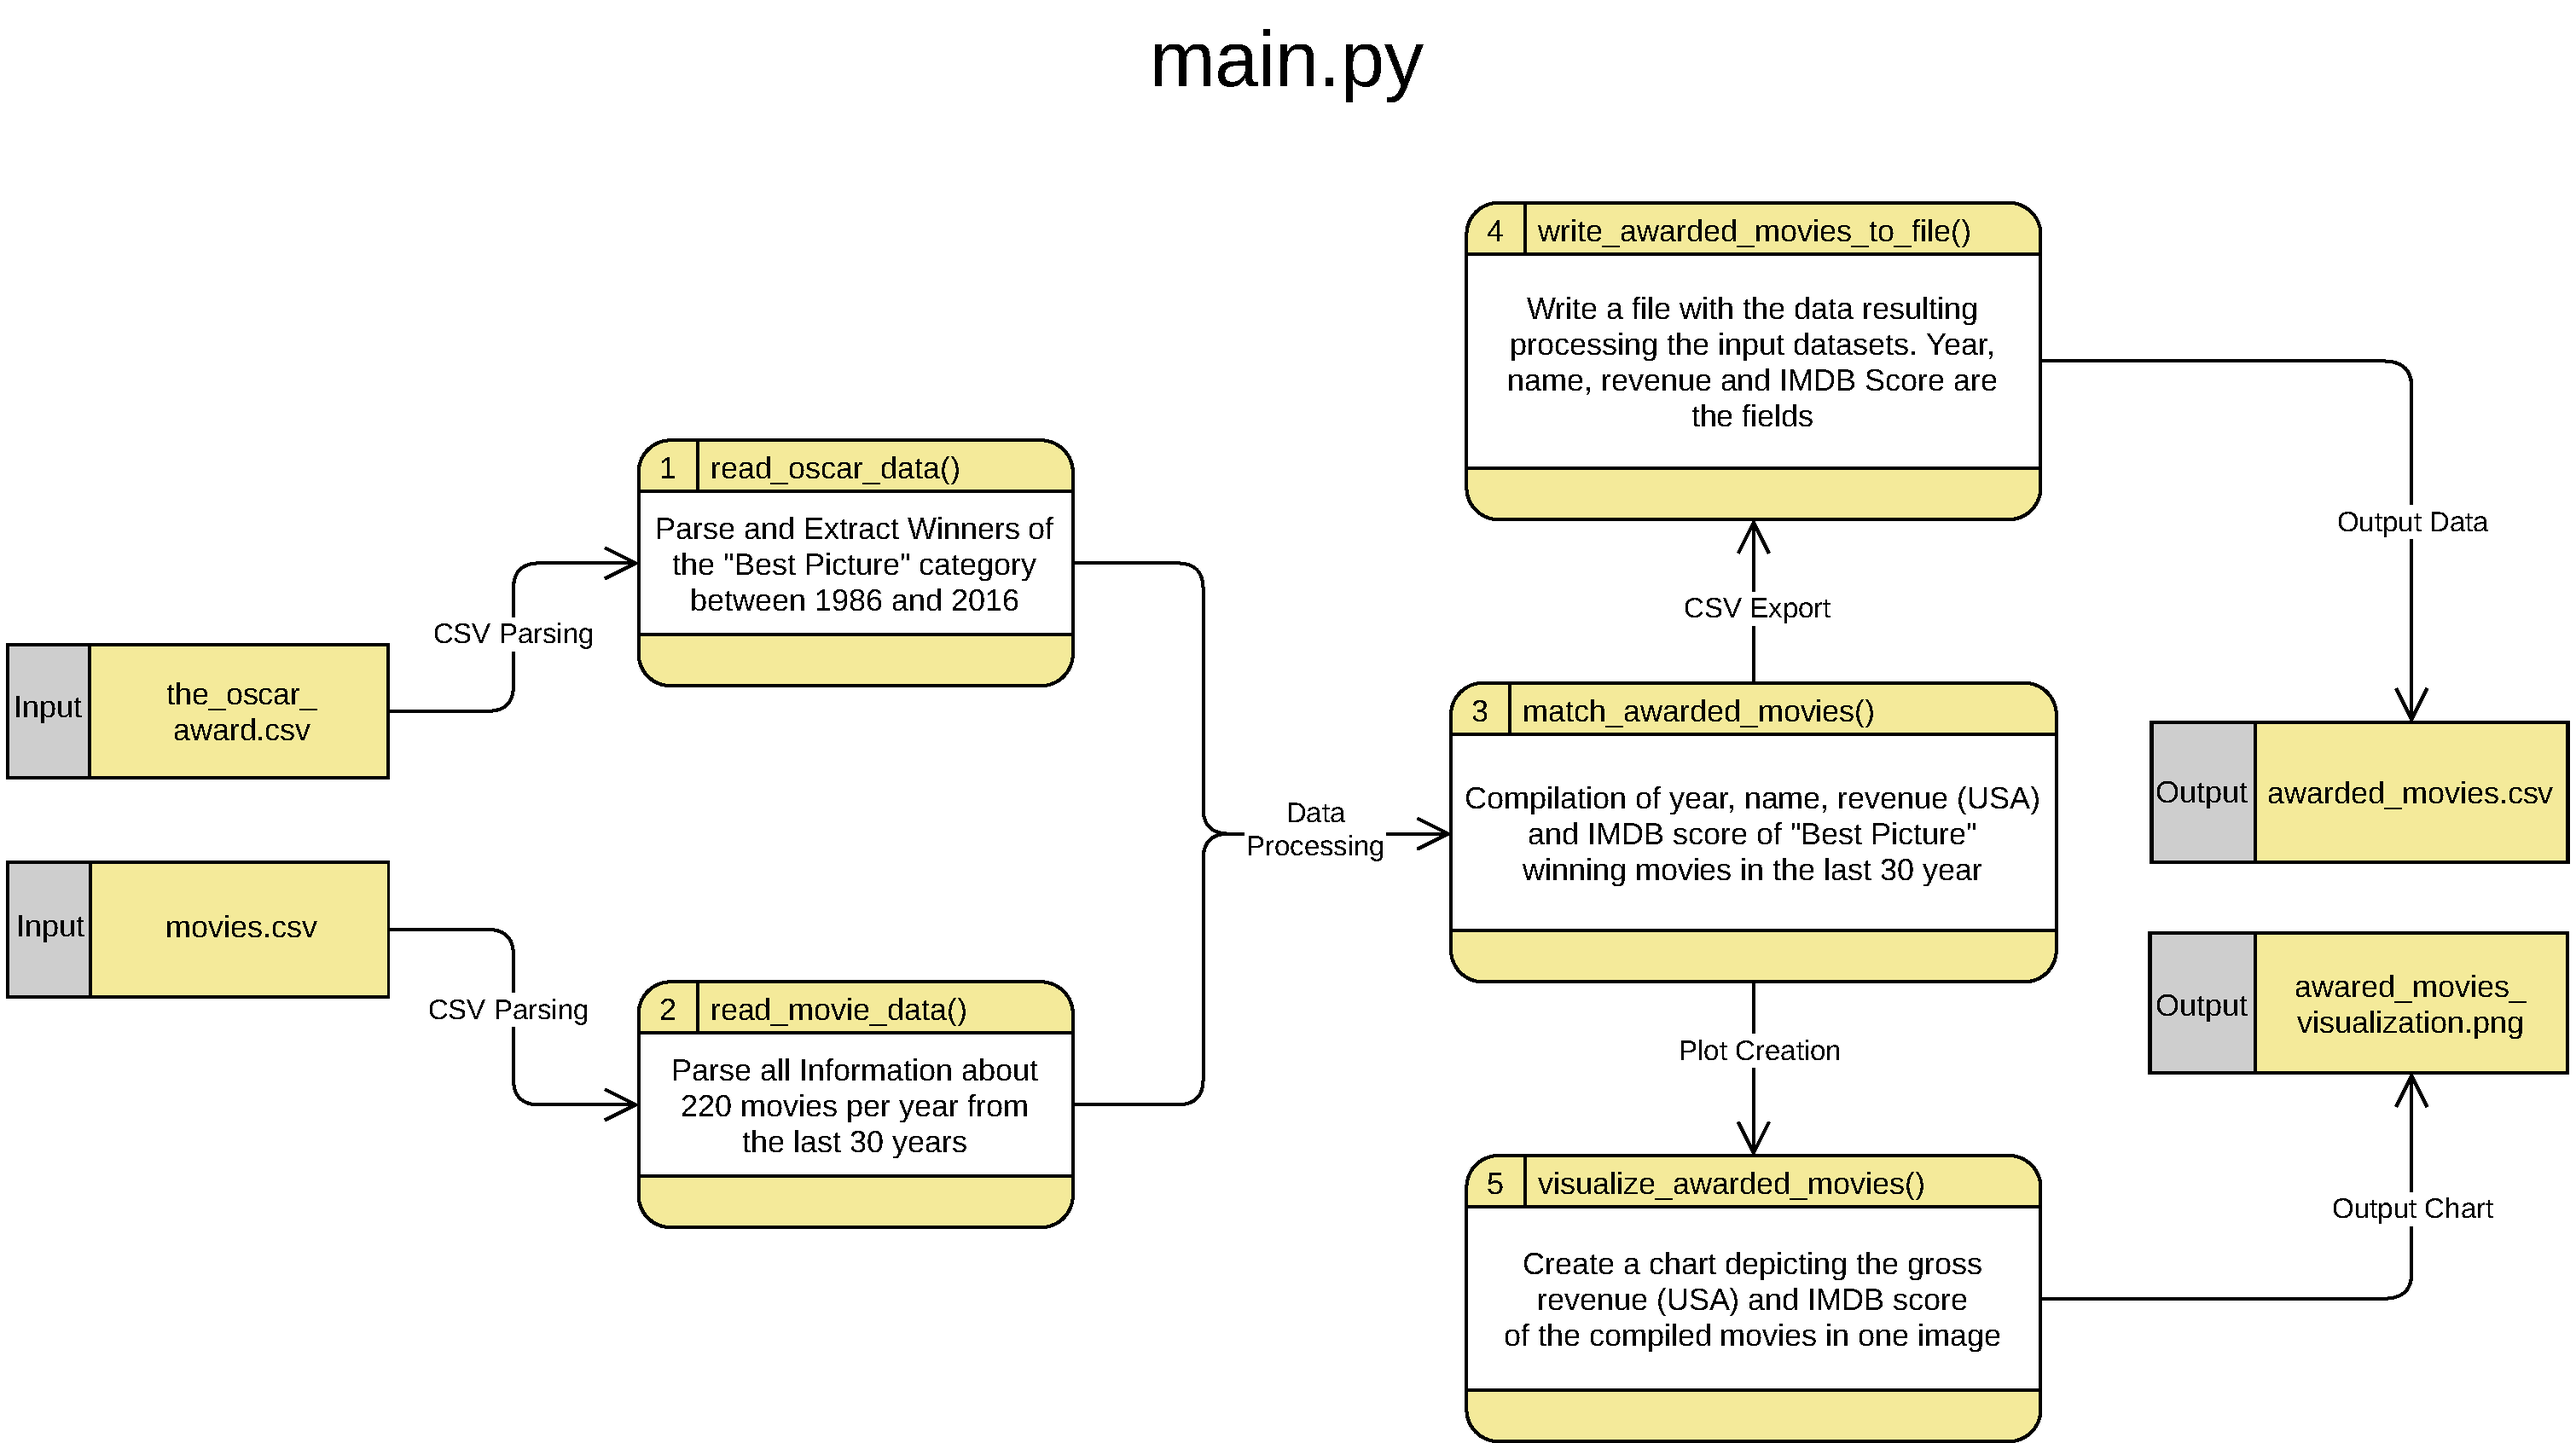
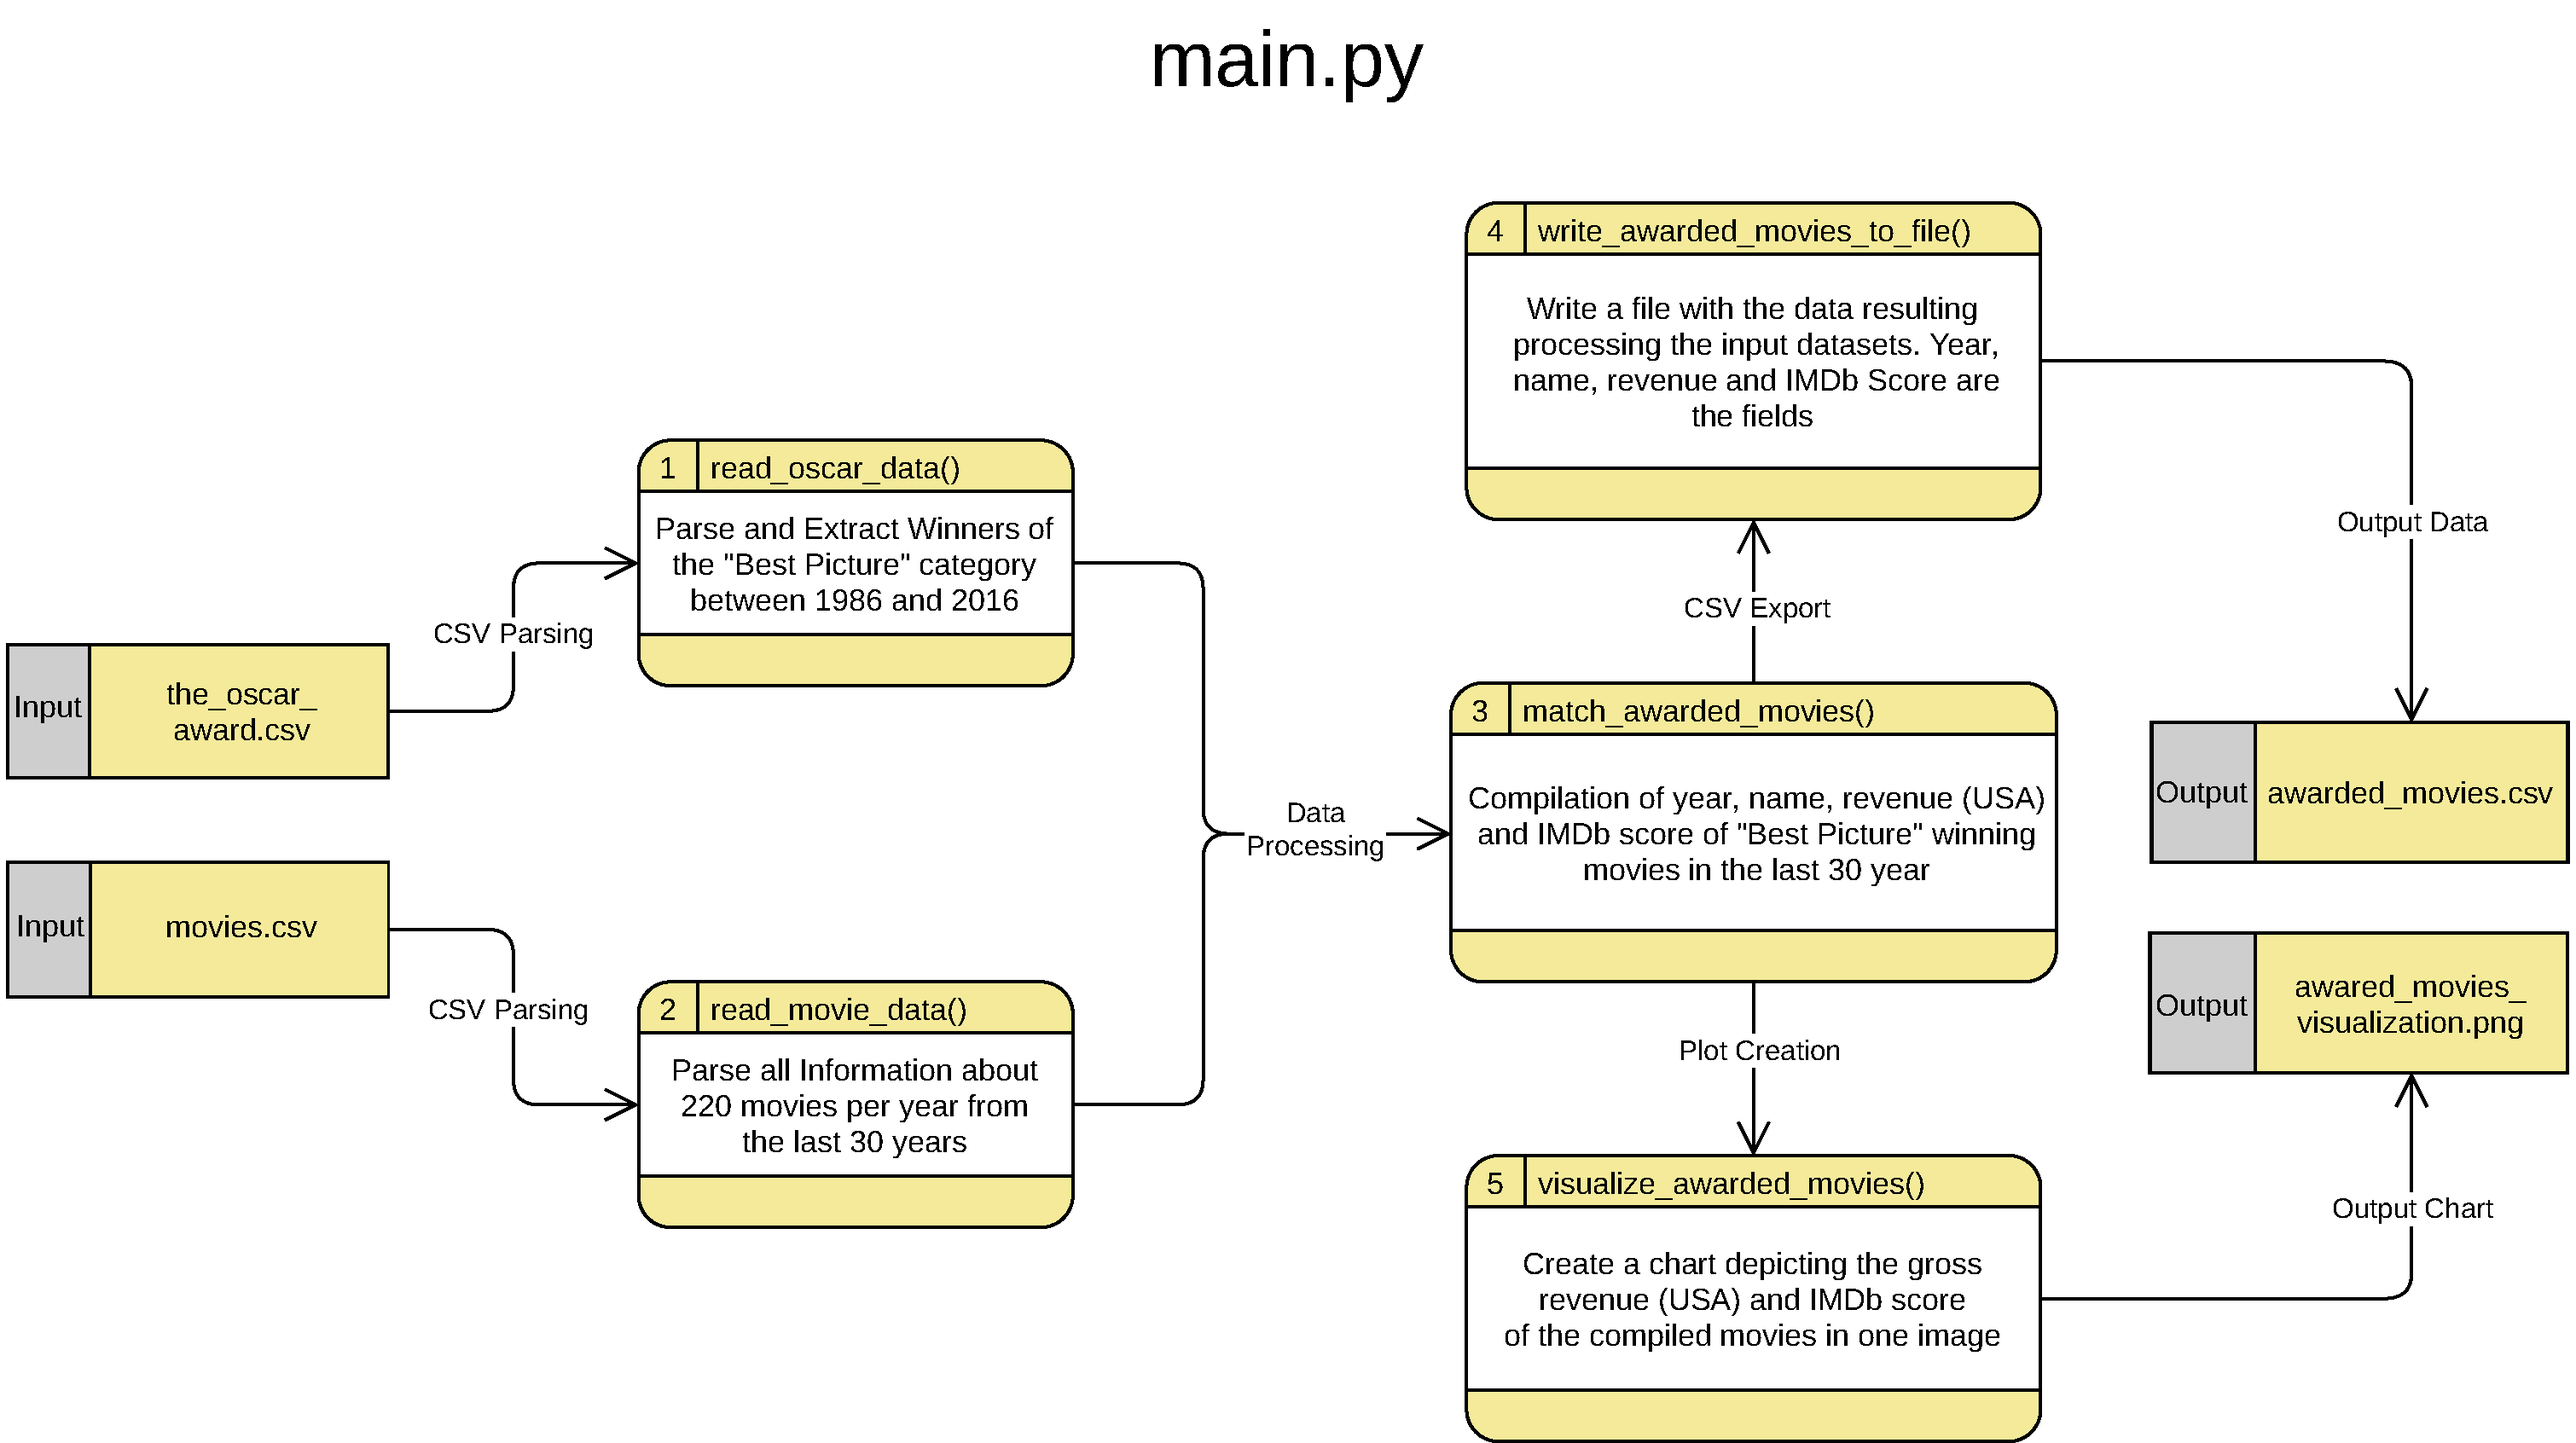
Change spelling of "IMDB" to correct variant "IMDb"

Changed region(s): [[0.5603, 0.5225, 0.8093, 0.6147], [0.5914, 0.2151, 0.7781, 0.2766], [0.5914, 0.8913, 0.747, 0.922]]

diff --git a/src/main.py b/src/main.py
@@ -95,9 +95,9 @@ def read_oscar_data() -> Collection[OscarInfo]:
 
 def read_movie_data() -> Collection[Movie]:
     """
-    Parses the CSV dataset with IMDB information about movies from 1986 to 2016 and deserializes it into Movie model instances.
+    Parses the CSV dataset with IMDb information about movies from 1986 to 2016 and deserializes it into Movie model instances.
 
-    :return: Returns a collection of Movie instances that represents the raw information of the IMDB movie dataset.
+    :return: Returns a collection of Movie instances that represents the raw information of the IMDb movie dataset.
     :rtype: Collection[Movie]
     """
 
@@ -113,12 +113,12 @@ def read_movie_data() -> Collection[Movie]:
 
 def match_awarded_movies(oscar_infos: Iterable[OscarInfo], movies: Iterable[Movie]) -> Collection[AwardedMovie]:
     """
-    Matches the information gathered from the Oscar dataset with the one gathered from the IMDB movie dataset. Two entries are
+    Matches the information gathered from the Oscar dataset with the one gathered from the IMDb movie dataset. Two entries are
     defined to be "matching" if the title and year of the film described are equal in both datasets - i. e. film identity is
     defined by the name and finalization/release year.
 
     :param oscar_infos: relevant oscar award information to be taken into consideration for the matching
-    :param movies: movie data with IMDB information (gross revenue, user score) to be matched with the oscar infos
+    :param movies: movie data with IMDb information (gross revenue, user score) to be matched with the oscar infos
     :return: Returns a collection of AwardedMovie model instances that represents the processed data gathered by means of the matching.
     :rtype: Collection[AwardedMovie]
     """
@@ -141,10 +141,10 @@ def match_awarded_movies(oscar_infos: Iterable[OscarInfo], movies: Iterable[Movi
 def write_awarded_movies_to_file(awarded_movies: Iterable[AwardedMovie]) -> None:
     """
     Creates a CSV file within the local result folder that contains all movies that could be matched. More precisely,
-    the CSV file will contain the name, IMDB score, gross revenue in the USA of all films that have been awarded the
+    the CSV file will contain the name, IMDb score, gross revenue in the USA of all films that have been awarded the
     Oscar in the category "Best Picture" from 1986 to 2016 (both inclusively).
 
-    :param awarded_movies: the movies that were matched successfully between the two datasets (Oscar awards, IMDB data)
+    :param awarded_movies: the movies that were matched successfully between the two datasets (Oscar awards, IMDb data)
     :rtype: None
     """
     with open(awarded_movies_result_file, "w", newline="", encoding="utf-8") as csv_file:
@@ -158,9 +158,9 @@ def visualize_awarded_movies(awarded_movies: Iterable[AwardedMovie]) -> None:
     """
     Creates a PNG image within the local result folder that represents a visualization of the output of the data processing.
     It is a plot that juxtaposes the gross revenue of all movies that won the Best Picture Oscar between 1986 and 2016 along
-    with their respective IMDB user score.
+    with their respective IMDb user score.
 
-    :param awarded_movies: the movies that were matched successfully between the two datasets (Oscar awards, IMDB data)
+    :param awarded_movies: the movies that were matched successfully between the two datasets (Oscar awards, IMDb data)
     :rtype: None
     """
 
@@ -170,7 +170,7 @@ def visualize_awarded_movies(awarded_movies: Iterable[AwardedMovie]) -> None:
     def next_hundred_million(value):
         return math.ceil(value / 100_000_000) * 100_000_000
 
-    # prepare data: year and film on the x-axis, gross revenue and IMDB user score on the y-axes
+    # prepare data: year and film on the x-axis, gross revenue and IMDb user score on the y-axes
     x_labels = np.array(list(map(lambda movie: f"{movie.year}: {movie.movie}", awarded_movies)))
     y_values_revenue = np.array(list(map(lambda movie: movie.gross_revenue, awarded_movies)))
     y_values_score = np.array(list(map(lambda movie: movie.score, awarded_movies)))
@@ -178,7 +178,7 @@ def visualize_awarded_movies(awarded_movies: Iterable[AwardedMovie]) -> None:
     # general plot setup
     fig, ax1 = plt.subplots(figsize=(10, 10))
     plt.xticks(rotation=270)
-    plt.suptitle("Gross Revenue vs. IMDB Score of Oscar Best Picture Winners\n(1986-2016)", fontsize=16, weight="bold")
+    plt.suptitle("Gross Revenue vs. IMDb Score of Oscar Best Picture Winners\n(1986-2016)", fontsize=16, weight="bold")
     millions_formatter = ticker.FuncFormatter(label_in_millions)
 
     # x-axis: display all years and movies
@@ -193,9 +193,9 @@ def visualize_awarded_movies(awarded_movies: Iterable[AwardedMovie]) -> None:
     ax1.yaxis.set_major_formatter(millions_formatter)  # so that numbers representing axis labels are not too big
     ax1.plot(x_labels, y_values_revenue, color='tab:green', marker=".")
 
-    # second y-axis: display IMDB user score
+    # second y-axis: display IMDb user score
     ax2 = ax1.twinx()  # the second y-axis should share the x-axis with the first y-axis
-    ax2.set_ylabel('IMDB User Score', weight="bold", labelpad=7)
+    ax2.set_ylabel('IMDb User Score', weight="bold", labelpad=7)
     ax2.set_ylim([0, 10])
     ax2.yaxis.set_major_locator(ticker.FixedLocator(np.arange(0, 11)))  # display all numbers between 0 and 10
     ax2.plot(x_labels, y_values_score, color='tab:blue', marker=".")

diff --git a/README.MD b/README.MD
@@ -1,6 +1,6 @@
-# Examining the Progression of the Revenue of Oscar “Best Picture” Winners and Their IMDB User Score From 1986 to 2016
+# Examining the Progression of the Revenue of Oscar “Best Picture” Winners and Their IMDb User Score From 1986 to 2016
 
-This experiment serves the purpose of investigating how the gross revenue (USA) and the IMDB user score of movies that were awarded with an Oscar in
+This experiment serves the purpose of investigating how the gross revenue (USA) and the IMDb user score of movies that were awarded with an Oscar in
 the category "Best Picture" have evolved and fluctuated over the last three decades - more specifically, from 1986 to 2016. from 1986 until 2016.
 
 ## Description
@@ -41,7 +41,7 @@ The listing below illustrates the directory structure of the experiment, along w
 ```
 
 * `data`: raw data sets that are processed
-    * `movies.csv`: 6820 movies from 1986 until 2016 with attributes such as budget, genre, gross revenue, IMDB user score; data was scraped from IMDB
+    * `movies.csv`: 6820 movies from 1986 until 2016 with attributes such as budget, genre, gross revenue, IMDb user score; data was scraped from IMDb
     * `the_oscar_award.csv`: records of past Oscar winners and nominees between 1927 and 2018; data was scraped from the official Academy Awards
       search site
 * `documentation`: files that provide additional information about the experiment (might overlap with information presented in this `README`)
